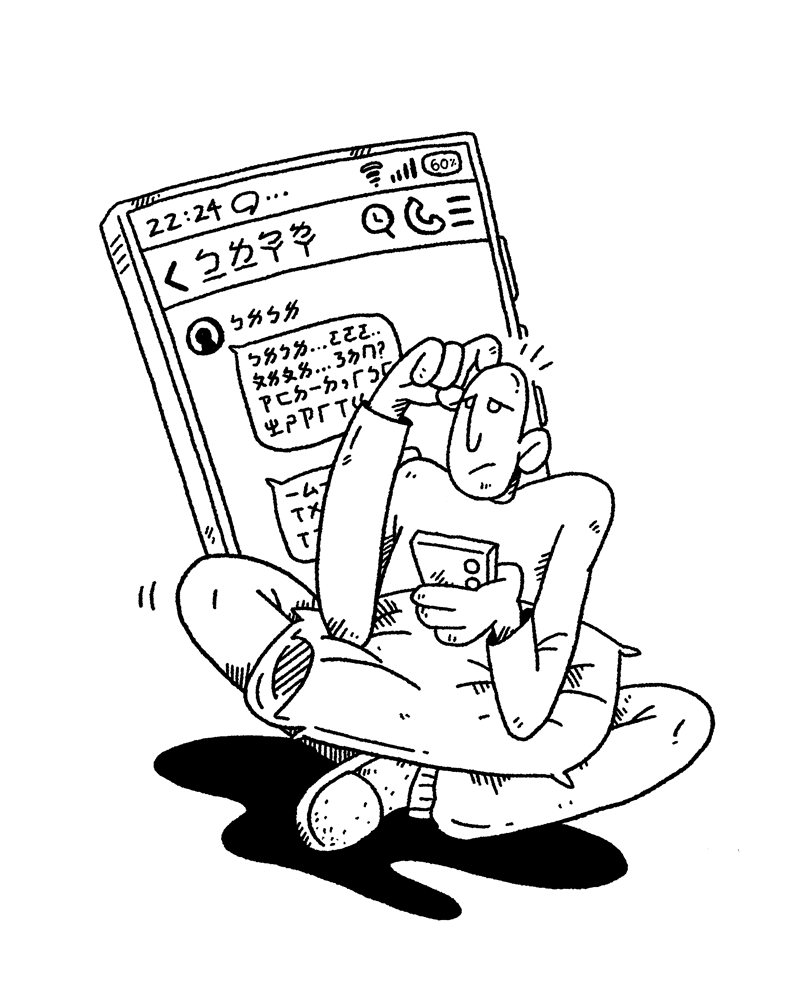
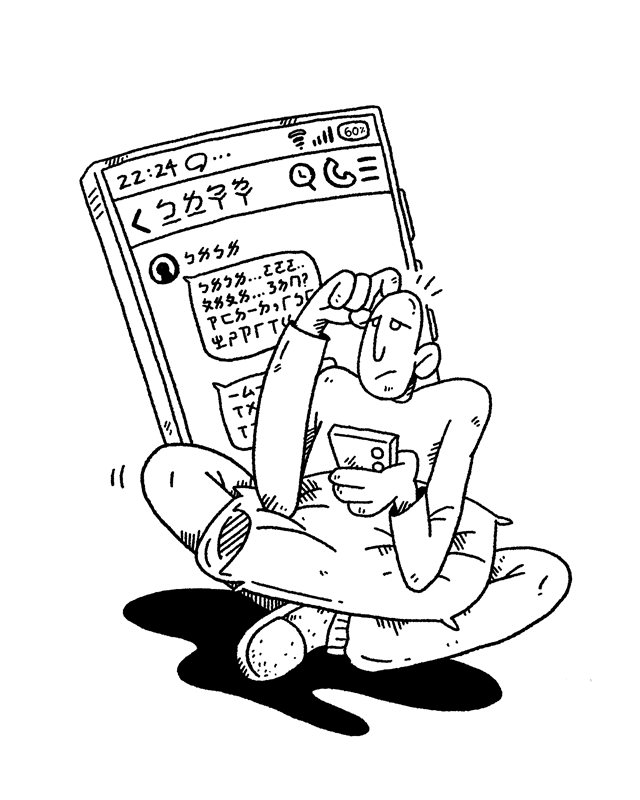
Gallery: 21 illustrations, resize by longest side, viewer fits every image to the screen

diff --git a/illustration.html b/illustration.html
@@ -55,10 +55,25 @@
   <!-- tiles:start -->
   <figure class="tile"><img data-viewer="works/illustration/il-68f68974.jpg" src="works/illustration/il-68f68974.jpg" srcset="works/illustration/il-68f68974-sm.jpg 800w, works/illustration/il-68f68974.jpg 1600w" sizes="(max-width: 760px) 92vw, 45vw" width="1600" height="1136" alt="樹洞一號" loading="lazy" decoding="async"><figcaption>樹洞一號<small>2026　賀卡</small></figcaption></figure>
   <figure class="tile"><img data-viewer="works/illustration/il-edb847fd.jpg" src="works/illustration/il-edb847fd.jpg" srcset="works/illustration/il-edb847fd-sm.jpg 800w, works/illustration/il-edb847fd.jpg 1600w" sizes="(max-width: 760px) 92vw, 45vw" width="1600" height="1136" alt="樹洞二號" loading="lazy" decoding="async"><figcaption>樹洞二號<small>2026　賀卡</small></figcaption></figure>
+  <figure class="tile"><img data-viewer="works/illustration/il-abae4df7.jpg" src="works/illustration/il-abae4df7.jpg" srcset="works/illustration/il-abae4df7-sm.jpg 800w, works/illustration/il-abae4df7.jpg 1080w" sizes="(max-width: 760px) 92vw, 45vw" width="1080" height="1080" alt="Black Mamba 24" loading="lazy" decoding="async"><figcaption>Black Mamba 24<small></small></figcaption></figure>
+  <figure class="tile"><img data-viewer="works/illustration/il-46255873.jpg" src="works/illustration/il-46255873.jpg" srcset="works/illustration/il-46255873-sm.jpg 800w, works/illustration/il-46255873.jpg 1600w" sizes="(max-width: 760px) 92vw, 45vw" width="1600" height="1600" alt="Hi! 好久不見" loading="lazy" decoding="async"><figcaption>Hi! 好久不見<small></small></figcaption></figure>
   <figure class="tile"><img data-viewer="works/illustration/il-79b5b2e9.jpg" src="works/illustration/il-79b5b2e9.jpg" srcset="works/illustration/il-79b5b2e9-sm.jpg 800w, works/illustration/il-79b5b2e9.jpg 1000w" sizes="(max-width: 760px) 92vw, 45vw" width="1000" height="1000" alt="Let's GO" loading="lazy" decoding="async"><figcaption>Let's GO<small></small></figcaption></figure>
+  <figure class="tile"><img data-viewer="works/illustration/il-dbc4571e.jpg" src="works/illustration/il-dbc4571e.jpg" srcset="works/illustration/il-dbc4571e-sm.jpg 800w, works/illustration/il-dbc4571e.jpg 1000w" sizes="(max-width: 760px) 92vw, 45vw" width="1000" height="1000" alt="ㄏㄚˊ" loading="lazy" decoding="async"><figcaption>ㄏㄚˊ<small></small></figcaption></figure>
+  <figure class="tile"><img data-viewer="works/illustration/il-e410aa21.jpg" src="works/illustration/il-e410aa21.jpg" srcset="works/illustration/il-e410aa21-sm.jpg 800w, works/illustration/il-e410aa21.jpg 1600w" sizes="(max-width: 760px) 92vw, 45vw" width="1600" height="1200" alt="大數位時代" loading="lazy" decoding="async"><figcaption>大數位時代<small></small></figcaption></figure>
+  <figure class="tile"><img data-viewer="works/illustration/il-c86b986b.jpg" src="works/illustration/il-c86b986b.jpg" srcset="works/illustration/il-c86b986b-sm.jpg 800w, works/illustration/il-c86b986b.jpg 1600w" sizes="(max-width: 760px) 92vw, 45vw" width="1600" height="1600" alt="什麼都抓不住" loading="lazy" decoding="async"><figcaption>什麼都抓不住<small></small></figcaption></figure>
   <figure class="tile"><img data-viewer="works/illustration/il-eda52661.jpg" src="works/illustration/il-eda52661.jpg" srcset="works/illustration/il-eda52661-sm.jpg 800w, works/illustration/il-eda52661.jpg 1000w" sizes="(max-width: 760px) 92vw, 45vw" width="1000" height="1000" alt="手機手機聽我說" loading="lazy" decoding="async"><figcaption>手機手機聽我說<small></small></figcaption></figure>
-  <figure class="tile"><img data-viewer="works/illustration/il-e2b97708.jpg" src="works/illustration/il-e2b97708.jpg" srcset="works/illustration/il-e2b97708-sm.jpg 800w, works/illustration/il-e2b97708.jpg 1600w" sizes="(max-width: 760px) 92vw, 45vw" width="1600" height="2000" alt="拍謝哩工蝦" loading="lazy" decoding="async"><figcaption>拍謝哩工蝦<small></small></figcaption></figure>
+  <figure class="tile"><img data-viewer="works/illustration/il-ded0ed8e.jpg" src="works/illustration/il-ded0ed8e.jpg" srcset="works/illustration/il-ded0ed8e-sm.jpg 800w, works/illustration/il-ded0ed8e.jpg 1600w" sizes="(max-width: 760px) 92vw, 45vw" width="1600" height="1600" alt="吃我一拳" loading="lazy" decoding="async"><figcaption>吃我一拳<small></small></figcaption></figure>
+  <figure class="tile"><img data-viewer="works/illustration/il-4a644bb0.jpg" src="works/illustration/il-4a644bb0.jpg" srcset="works/illustration/il-4a644bb0-sm.jpg 800w, works/illustration/il-4a644bb0.jpg 1600w" sizes="(max-width: 760px) 92vw, 45vw" width="1600" height="1135" alt="走走看看" loading="lazy" decoding="async"><figcaption>走走看看<small></small></figcaption></figure>
+  <figure class="tile"><img data-viewer="works/illustration/il-4fd5754d.jpg" src="works/illustration/il-4fd5754d.jpg" srcset="works/illustration/il-4fd5754d-sm.jpg 800w, works/illustration/il-4fd5754d.jpg 1600w" sizes="(max-width: 760px) 92vw, 45vw" width="1600" height="1600" alt="兩好三壞" loading="lazy" decoding="async"><figcaption>兩好三壞<small></small></figcaption></figure>
+  <figure class="tile"><img data-viewer="works/illustration/il-e2b97708.jpg" src="works/illustration/il-e2b97708.jpg" srcset="works/illustration/il-e2b97708-sm.jpg 640w, works/illustration/il-e2b97708.jpg 1280w" sizes="(max-width: 760px) 92vw, 45vw" width="1280" height="1600" alt="拍謝哩工蝦" loading="lazy" decoding="async"><figcaption>拍謝哩工蝦<small></small></figcaption></figure>
+  <figure class="tile"><img data-viewer="works/illustration/il-c62c7852.jpg" src="works/illustration/il-c62c7852.jpg" srcset="works/illustration/il-c62c7852-sm.jpg 566w, works/illustration/il-c62c7852.jpg 1131w" sizes="(max-width: 760px) 92vw, 45vw" width="1131" height="1600" alt="這是小寫a" loading="lazy" decoding="async"><figcaption>這是小寫a<small></small></figcaption></figure>
+  <figure class="tile"><img data-viewer="works/illustration/il-366fa613.jpg" src="works/illustration/il-366fa613.jpg" srcset="works/illustration/il-366fa613-sm.jpg 800w, works/illustration/il-366fa613.jpg 1600w" sizes="(max-width: 760px) 92vw, 45vw" width="1600" height="1600" alt="麥 My Dear Friends" loading="lazy" decoding="async"><figcaption>麥 My Dear Friends<small></small></figcaption></figure>
+  <figure class="tile"><img data-viewer="works/illustration/il-8f761c66.jpg" src="works/illustration/il-8f761c66.jpg" srcset="works/illustration/il-8f761c66-sm.jpg 800w, works/illustration/il-8f761c66.jpg 1600w" sizes="(max-width: 760px) 92vw, 45vw" width="1600" height="1600" alt="給你一個過肩摔" loading="lazy" decoding="async"><figcaption>給你一個過肩摔<small></small></figcaption></figure>
   <figure class="tile"><img data-viewer="works/illustration/il-d641ae73.jpg" src="works/illustration/il-d641ae73.jpg" srcset="works/illustration/il-d641ae73-sm.jpg 800w, works/illustration/il-d641ae73.jpg 1600w" sizes="(max-width: 760px) 92vw, 45vw" width="1600" height="1600" alt="超級痛痛人" loading="lazy" decoding="async"><figcaption>超級痛痛人<small></small></figcaption></figure>
+  <figure class="tile"><img data-viewer="works/illustration/il-336ba6e1.jpg" src="works/illustration/il-336ba6e1.jpg" srcset="works/illustration/il-336ba6e1-sm.jpg 800w, works/illustration/il-336ba6e1.jpg 1600w" sizes="(max-width: 760px) 92vw, 45vw" width="1600" height="539" alt="電話終結戰術" loading="lazy" decoding="async"><figcaption>電話終結戰術<small></small></figcaption></figure>
+  <figure class="tile"><img data-viewer="works/illustration/il-9cd206b6.jpg" src="works/illustration/il-9cd206b6.jpg" srcset="works/illustration/il-9cd206b6-sm.jpg 800w, works/illustration/il-9cd206b6.jpg 1600w" sizes="(max-width: 760px) 92vw, 45vw" width="1600" height="1600" alt="墜" loading="lazy" decoding="async"><figcaption>墜<small></small></figcaption></figure>
+  <figure class="tile"><img data-viewer="works/illustration/il-aa5fc85e.jpg" src="works/illustration/il-aa5fc85e.jpg" srcset="works/illustration/il-aa5fc85e-sm.jpg 800w, works/illustration/il-aa5fc85e.jpg 1200w" sizes="(max-width: 760px) 92vw, 45vw" width="1200" height="1200" alt="數位綁架" loading="lazy" decoding="async"><figcaption>數位綁架<small></small></figcaption></figure>
+  <figure class="tile"><img data-viewer="works/illustration/il-affedf33.jpg" src="works/illustration/il-affedf33.jpg" srcset="works/illustration/il-affedf33-sm.jpg 800w, works/illustration/il-affedf33.jpg 1600w" sizes="(max-width: 760px) 92vw, 45vw" width="1600" height="1135" alt="飆起" loading="lazy" decoding="async"><figcaption>飆起<small></small></figcaption></figure>
   <!-- tiles:end -->
 </section>
 

diff --git a/js/viewer.js b/js/viewer.js
@@ -36,7 +36,15 @@
   const slides = [...track.children], slideImgs = slides.map(s => s.firstChild), thumbBtns = [...thumbs.children];
 
   let index = 0, isOpen = false;
-  const load = n => { const im = slideImgs[n]; if (im && !im.src) im.src = im.dataset.src; };
+  // 每張圖都縮放到填滿可用空間（保持比例），解析度不同的圖顯示起來一樣大
+  const fit = im => {
+    if (!im.naturalWidth || !im.parentElement.clientWidth) return;
+    const s = im.parentElement, r = Math.min(s.clientWidth / im.naturalWidth, s.clientHeight / im.naturalHeight);
+    im.style.width = Math.floor(im.naturalWidth * r) + 'px'; im.style.height = Math.floor(im.naturalHeight * r) + 'px';
+  };
+  slideImgs.forEach(im => im.addEventListener('load', () => fit(im)));
+  addEventListener('resize', () => slideImgs.forEach(fit));
+  const load = n => { const im = slideImgs[n]; if (im && !im.src) im.src = im.dataset.src; else if (im) fit(im); };
   const captionOf = n => {
     const fig = sources[n].closest('figure'), fc = fig && fig.querySelector('figcaption');
     if (!fc) return sources[n].alt;
